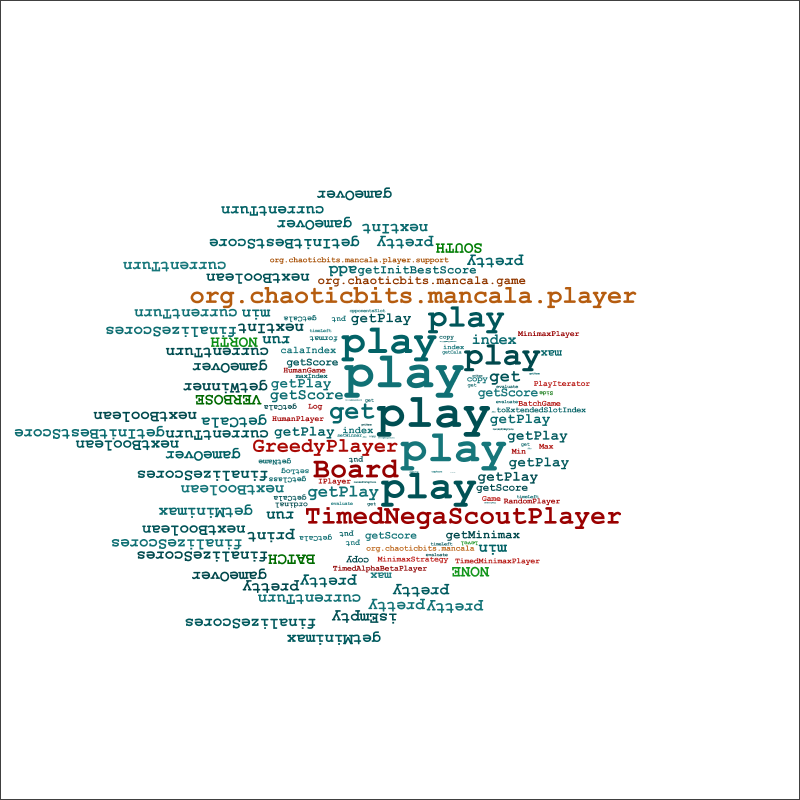
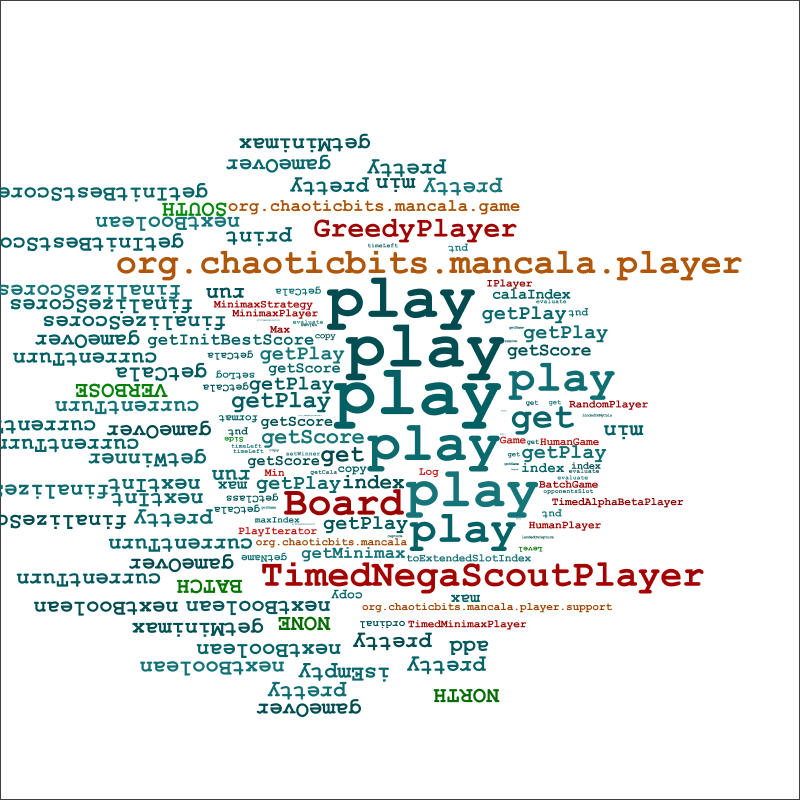
cleanup

Changed region(s): [[0.0, 0.1562, 0.9375, 0.9062]]

diff --git a/src/main/java/org/chaoticbits/collabcloud/codeprocessor/java/JavaColorScheme.java b/src/main/java/org/chaoticbits/collabcloud/codeprocessor/java/JavaColorScheme.java
@@ -1,6 +1,10 @@
 package org.chaoticbits.collabcloud.codeprocessor.java;
 
-import static org.chaoticbits.collabcloud.codeprocessor.java.JavaTokenType.*;
+import static org.chaoticbits.collabcloud.codeprocessor.java.JavaTokenType.CLASS;
+import static org.chaoticbits.collabcloud.codeprocessor.java.JavaTokenType.ENUM;
+import static org.chaoticbits.collabcloud.codeprocessor.java.JavaTokenType.METHOD;
+import static org.chaoticbits.collabcloud.codeprocessor.java.JavaTokenType.PACKAGE;
+
 import java.awt.Color;
 import java.util.HashMap;
 import java.util.Map;

diff --git a/src/test/java/org/chaoticbits/collabcloud/SummarizeRepo.java b/src/test/java/org/chaoticbits/collabcloud/SummarizeRepo.java
@@ -47,7 +47,7 @@ public class SummarizeRepo {
 	private static Font INITIAL_FONT = new Font("Courier New", Font.BOLD, 150);
 	// private static IColorScheme COLOR_SCHEME = new RandomGrey(RAND, 25, 175);
 	private static IColorScheme COLOR_SCHEME = new JavaColorScheme(RAND, 50);
-	private static double MAX_FONT_SIZE = 50.0d;
+	private static double MAX_FONT_SIZE = 70.0d;
 
 	private static final Intersector intersector = new Intersector(10, LEAF_CUTOFF);
 	private static final IHitCheck<Shape> checker = new IHitCheck<Shape>() {

diff --git a/src/main/java/org/chaoticbits/collabcloud/visualizer/placement/CenteredTokenWrapper.java b/src/main/java/org/chaoticbits/collabcloud/visualizer/placement/CenteredTokenWrapper.java
@@ -1,8 +1,6 @@
 package org.chaoticbits.collabcloud.visualizer.placement;
 
-import java.awt.Font;
 import java.awt.Shape;
-import java.awt.font.FontRenderContext;
 import java.awt.geom.Point2D;
 import java.awt.geom.Rectangle2D;
 
